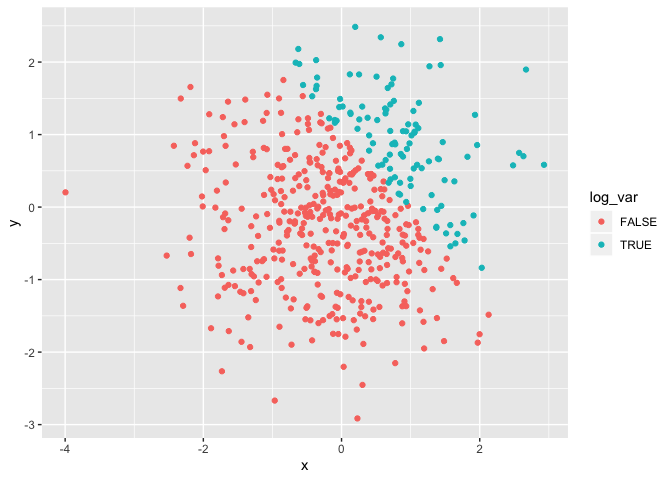
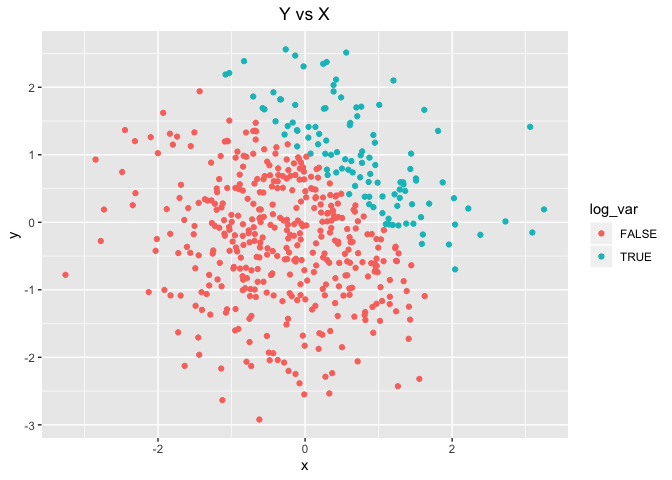
final commit w plot titles

diff --git a/p8105_hw1_rs4025.md b/p8105_hw1_rs4025.md
@@ -19,13 +19,13 @@ df1 = tibble(
 mean(pull (df1, norm_samp))
 ```
 
-    ## [1] 0.5087269
+    ## [1] 0.4855753
 
 ``` r
 mean(pull (df1, norm_samp_log))
 ```
 
-    ## [1] 0.75
+    ## [1] 0.875
 
 ``` r
 mean(pull (df1, char_var))
@@ -71,8 +71,8 @@ logical_num = as.numeric(pull (df1, norm_samp_log))
 pull( df1, norm_samp) * logical_num
 ```
 
-    ## [1] 1.2949872 0.7768998 0.0000000 1.1498019 0.6956288 0.4206546 0.0000000
-    ## [8] 0.8700979
+    ## [1] 0.06427612 0.54557286 0.57181596 0.31363639 0.60971125 0.00000000
+    ## [7] 1.55089135 0.74034912
 
 ``` r
 #logical to factor
@@ -91,8 +91,8 @@ logical_factor_num = as.numeric(
 pull( df1, norm_samp) * logical_factor_num
 ```
 
-    ## [1]  2.5899744  1.5537996 -0.7749655  2.2996039  1.3912576  0.8413092
-    ## [7] -0.3632891  1.7401958
+    ## [1]  0.1285522  1.0911457  1.1436319  0.6272728  1.2194225 -0.5116508
+    ## [7]  3.1017827  1.4806982
 
 Similar to when we were trying to find the mean of a factor variable,
 multiplying a numeric variable by a factor variable will not work since
@@ -112,13 +112,15 @@ df2 = tibble(
 ```
 
 The data frame, ‘df2’, has 500 rows and 5 columns. The mean of x is
-about -0.038, the median of x is about -0.022, and the standard
-deviation of x is about 0.987. The proportion of cases for which x+y \>
-1 is 0.214.
+about -0.09, the median of x is about -0.101, and the standard deviation
+of x is about 0.991. The proportion of cases for which x+y \> 1 is 0.22.
 
 ``` r
 # scatter plot 1 - color by logical 
-ggplot(df2, aes(x = x, y = y, color = log_var)) + geom_point()
+ggplot(df2, aes(x = x, y = y, color = log_var)) + 
+  geom_point() + 
+  ggtitle("Y vs X") +
+  theme(plot.title = element_text(hjust = 0.5))
 ```
 
 ![](p8105_hw1_rs4025_files/figure-gfm/unnamed-chunk-5-1.png)<!-- -->
@@ -128,14 +130,20 @@ ggplot(df2, aes(x = x, y = y, color = log_var)) + geom_point()
 ggsave("scatter_plot_hw1.pdf", height = 4, width = 6) 
 
 # scatter plot 2 - color by numeric 
-ggplot(df2, aes(x = x, y = y, color = num_var)) + geom_point()
+ggplot(df2, aes(x = x, y = y, color = num_var)) + 
+  geom_point() + 
+  ggtitle("Y vs X") +
+  theme(plot.title = element_text(hjust = 0.5))
 ```
 
 ![](p8105_hw1_rs4025_files/figure-gfm/unnamed-chunk-5-2.png)<!-- -->
 
 ``` r
 # scatter plot 3 - color by factor 
-ggplot(df2, aes(x = x, y = y, color = factor_var)) + geom_point()
+ggplot(df2, aes(x = x, y = y, color = factor_var)) + 
+  geom_point() + 
+  ggtitle("Y vs X") +
+  theme(plot.title = element_text(hjust = 0.5))
 ```
 
 ![](p8105_hw1_rs4025_files/figure-gfm/unnamed-chunk-5-3.png)<!-- -->
